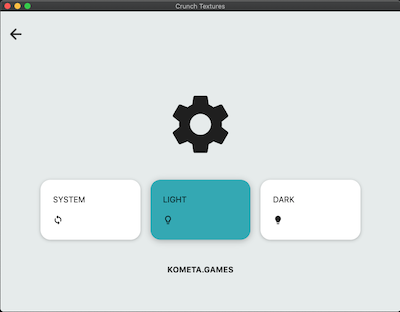
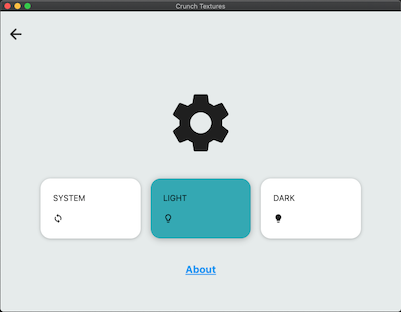
Added About link to the settings screen; minor README update

diff --git a/kometa_images/lib/screens/settings/settings_screen.dart b/kometa_images/lib/screens/settings/settings_screen.dart
@@ -6,12 +6,13 @@ import 'package:kometa_images/app/theme/theme_constants.dart';
 import 'package:kometa_images/app/theme/themes.dart';
 import 'package:kometa_images/screens/home/components/top_panel_card.dart';
 import 'package:kometa_images/screens/home/home_screen.dart';
+import 'package:url_launcher/url_launcher.dart';
 
 class SettingsScreen extends StatelessWidget {
   @override
   Widget build(BuildContext context) {
     return Scaffold(
-      appBar: null,
+        appBar: null,
         body: Column(
           children: [
             SizedBox(height: 20),
@@ -31,30 +32,31 @@ class SettingsScreen extends StatelessWidget {
             ),
             Spacer(),
             Column(
-                  mainAxisAlignment: MainAxisAlignment.center,
-                  crossAxisAlignment: CrossAxisAlignment.center,
+              mainAxisAlignment: MainAxisAlignment.center,
+              crossAxisAlignment: CrossAxisAlignment.center,
+              children: [
+                Icon(Icons.settings, size: 142),
+                SizedBox(height: 30),
+                Row(
                   children: [
-                    Icon(Icons.settings, size: 142),
-                    SizedBox(height: 30),
-                    Row(
-                      children: [
-                        Spacer(),
-                        drawThemeModeCard(context, Icons.sync, ThemeMode.system),
-                        drawThemeModeCard(
-                            context, Icons.lightbulb_outline, ThemeMode.light),
-                        drawThemeModeCard(context, Icons.lightbulb, ThemeMode.dark),
-                        Spacer()
-                      ],
-                    ),
-                    SizedBox(height: 40),
-                    Text(
-                      "Kometa.Games".toUpperCase(),
-                      style: Theme.of(context)
-                          .textTheme
-                          .headline6
-                          .copyWith(fontWeight: FontWeight.bold),
-                    )
+                    Spacer(),
+                    drawThemeModeCard(context, Icons.sync, ThemeMode.system),
+                    drawThemeModeCard(
+                        context, Icons.lightbulb_outline, ThemeMode.light),
+                    drawThemeModeCard(context, Icons.lightbulb, ThemeMode.dark),
+                    Spacer()
                   ],
+                ),
+                SizedBox(height: 40),
+                InkWell(
+                    child: new Text('About',
+                        style: Theme.of(context).textTheme.headline4.copyWith(
+                            fontWeight: FontWeight.bold,
+                            color: Colors.blue,
+                            decoration: TextDecoration.underline)),
+                    onTap: () => launch(
+                        'https://github.com/AlexeyPerov/crunch_textures'))
+              ],
             ),
             Spacer()
           ],

diff --git a/kometa_images/macos/Flutter/GeneratedPluginRegistrant.swift b/kometa_images/macos/Flutter/GeneratedPluginRegistrant.swift
@@ -6,7 +6,9 @@ import FlutterMacOS
 import Foundation
 
 import path_provider_macos
+import url_launcher_macos
 
 func RegisterGeneratedPlugins(registry: FlutterPluginRegistry) {
   PathProviderPlugin.register(with: registry.registrar(forPlugin: "PathProviderPlugin"))
+  UrlLauncherPlugin.register(with: registry.registrar(forPlugin: "UrlLauncherPlugin"))
 }

diff --git a/README.md b/README.md
@@ -40,7 +40,7 @@ PS: if you want to change the theme go to Settings:
 
 Works with MacOS and Windows.
 
-Linux should work too but not tested. 
+Linux should work too (not tested). 
 
 Just type: 
 ```bash
